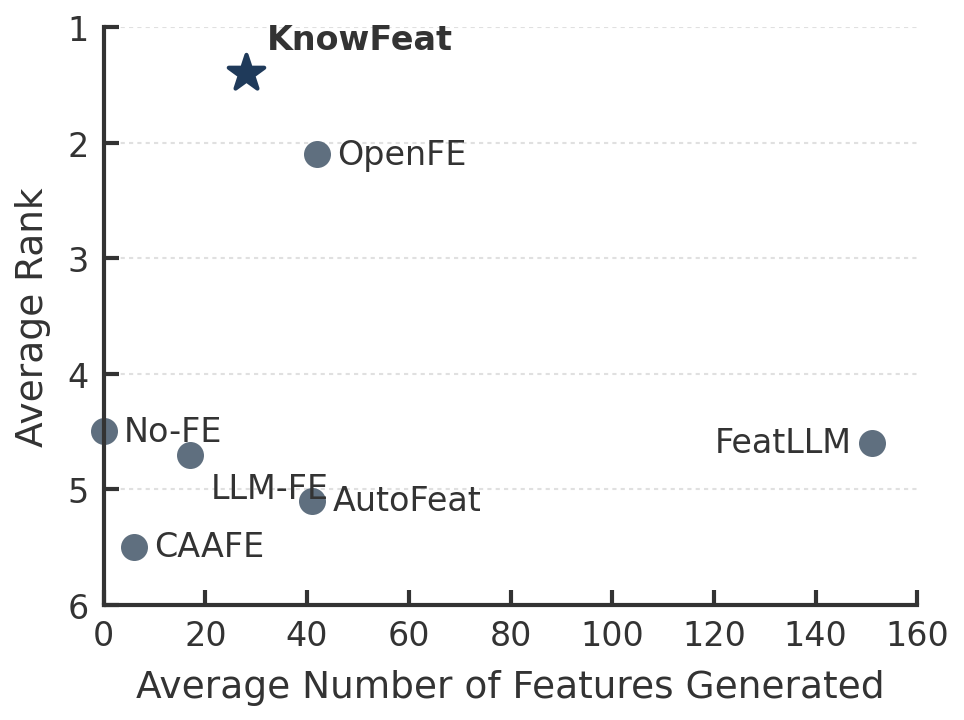
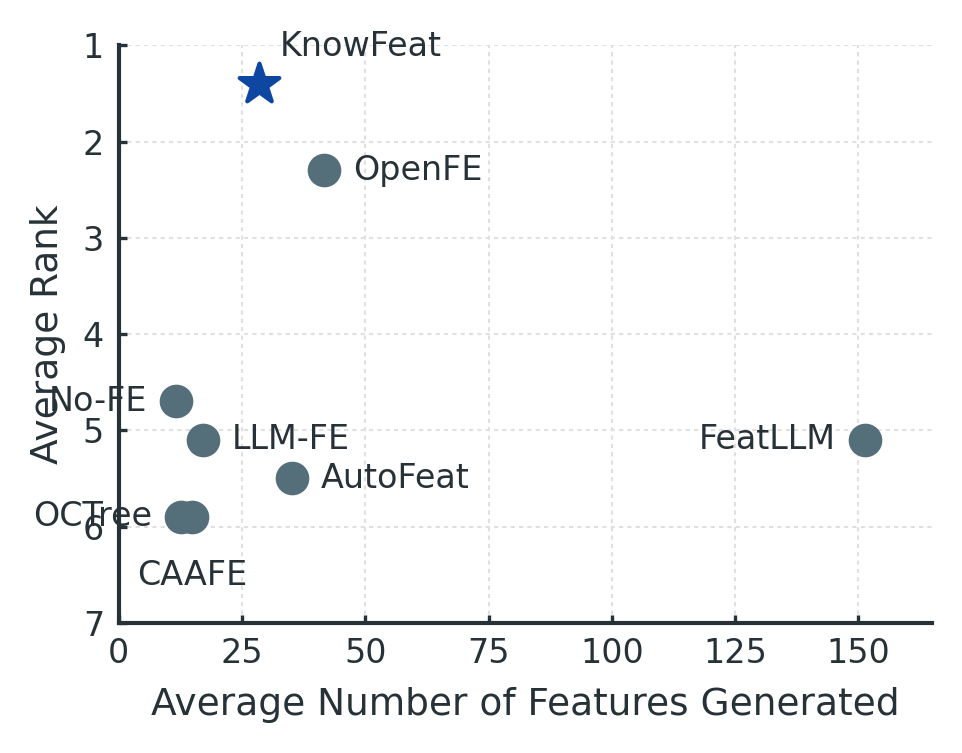
update figures: merge fig2+fig3, soften framework agent color
- Merge avg_rank bar chart (old Fig 2) and feat_vs_rank scatter (old Fig 3)
  into a single scatter plot with all 8 methods including OCTree
- Remove standalone avg_rank figure from experiments.tex
- Change ReAct LLM Agent background from black to steel-blue in framework
- Regenerate both figures via paperbanana

diff --git a/scripts/gen_fig3_scatter.py b/scripts/gen_fig3_scatter.py
@@ -18,19 +18,20 @@ async def main():
     COMPACT layout. Use standard fonts: Times New Roman or Helvetica, 8-9pt.
     White background, clean academic style.
 
-    Data:
+    Data (8 methods):
     | Method    | Avg Features Generated | Avg Rank |
     |-----------|----------------------|----------|
-    | KnowFeat  | 28                   | 1.4      |
-    | OpenFE    | 42                   | 2.1      |
-    | No-FE     | 0                    | 4.5      |
-    | FeatLLM   | 151                  | 4.6      |
-    | LLM-FE    | 17                   | 4.7      |
-    | AutoFeat  | 41                   | 5.1      |
-    | CAAFE     | 6                    | 5.5      |
+    | KnowFeat  | 28.4                 | 1.4      |
+    | OpenFE    | 41.7                 | 2.3      |
+    | No-FE     | 11.7                 | 4.7      |
+    | FeatLLM   | 151.3                | 5.1      |
+    | LLM-FE    | 17.1                 | 5.1      |
+    | AutoFeat  | 35.1                 | 5.5      |
+    | CAAFE     | 14.9                 | 5.9      |
+    | OCTree    | 12.7                 | 5.9      |
 
-    - X-axis: "Average Number of Features Generated" (0 to 160)
-    - Y-axis: "Average Rank" (INVERTED: 1 at top, 6 at bottom)
+    - X-axis: "Average Number of Features Generated" (0 to 165)
+    - Y-axis: "Average Rank" (INVERTED: 1 at top, 7 at bottom)
     - KnowFeat point in dark blue (larger marker or star), others in gray circles
     - Label each point with method name placed near the marker (avoid overlap)
     - The key insight: KnowFeat is in the top-left quadrant (few features, best rank)
@@ -41,13 +42,13 @@ async def main():
     """
 
     raw_data = {
-        "methods": ["KnowFeat", "OpenFE", "No-FE", "FeatLLM", "LLM-FE", "AutoFeat", "CAAFE"],
-        "avg_features_added": [28, 42, 0, 151, 17, 41, 6],
-        "avg_rank": [1.4, 2.1, 4.5, 4.6, 4.7, 5.1, 5.5],
+        "methods": ["KnowFeat", "OpenFE", "No-FE", "FeatLLM", "LLM-FE", "AutoFeat", "CAAFE", "OCTree"],
+        "avg_features_added": [28.4, 41.7, 11.7, 151.3, 17.1, 35.1, 14.9, 12.7],
+        "avg_rank": [1.4, 2.3, 4.7, 5.1, 5.1, 5.5, 5.9, 5.9],
     }
 
     caption = (
-        "Trade-off between feature quantity and average rank. "
+        "Trade-off between feature quantity and average rank across 8 methods. "
         "KnowFeat achieves the best rank with a moderate number of verified features."
     )
 

diff --git a/paper/experiments.tex b/paper/experiments.tex
@@ -88,16 +88,7 @@ adult              & .929{\scriptsize$\pm$.004} & \underline{.930{\scriptsize$\p
 \end{tabular}
 \end{table*}
 
-Figure~\ref{fig:avg_rank} visualizes the average ranks. KnowFeat achieves the best average rank (1.4), substantially outperforming the second-best OpenFE (2.3).
-
-\begin{figure}[t]
-    \centering
-    \includegraphics[width=\columnwidth]{figures/avg_rank.png}
-    \caption{Average rank across 7 public datasets (lower is better). KnowFeat achieves the best average rank (1.4) among 8 methods.}
-    \label{fig:avg_rank}
-\end{figure}
-
-OpenFE achieves the best results on 3 datasets (diabetes, heart, bank\_marketing) through exhaustive operator-operand search. However, OpenFE generates 34--50 features per dataset, while KnowFeat achieves competitive or superior performance with 12--46 features (see Section~\ref{subsec:rq4}).
+KnowFeat achieves the best average rank (1.4), substantially outperforming the second-best OpenFE (2.3). OpenFE achieves the best results on 3 datasets (diabetes, heart, bank\_marketing) through exhaustive operator-operand search. However, OpenFE generates 34--50 features per dataset, while KnowFeat achieves competitive or superior performance with 12--46 features (see Section~\ref{subsec:rq4}).
 
 Among LLM-based methods, LLM-FE generally outperforms CAAFE and FeatLLM but remains below both OpenFE and KnowFeat. OCTree~\cite{nam2024octree}, which augments LLM generation with decision tree reasoning, performs comparably to No-FE on most datasets and achieves a near-tied third place on adult, but its average rank (5.9) is among the lowest. Notably, both LLM-FE and OCTree underperform the No-FE baseline on multiple datasets, suggesting that LLM-based generation without external domain knowledge and multi-stage verification is insufficient.
 
@@ -171,6 +162,6 @@ Figure~\ref{fig:feat_vs_rank} visualizes this trade-off. KnowFeat strikes an eff
 \begin{figure}[t]
     \centering
     \includegraphics[width=\columnwidth]{figures/feat_vs_rank.png}
-    \caption{Trade-off between feature quantity and average rank. KnowFeat achieves the best rank with a moderate number of verified features.}
+    \caption{Trade-off between feature quantity and average rank across 8 methods. KnowFeat achieves the best rank (1.4) with a moderate number of verified features.}
     \label{fig:feat_vs_rank}
 \end{figure}

diff --git a/scripts/gen_fig1_framework.py b/scripts/gen_fig1_framework.py
@@ -36,7 +36,7 @@ async def main():
 
     === COLUMN 2: "Core Agent" (light cream/yellow background) ===
     Top: Label "Multi-round Reasoning Loop" with a circular arrow icon.
-    Center: A dark rounded box containing "ReAct LLM Agent" (bold text).
+    Center: A rounded box with a medium steel-blue background (#4682B4) containing "ReAct LLM Agent" (bold white text). Do NOT use black or very dark background — use a medium blue that is visible but not harsh.
     Do NOT write any model name like GPT-4o or DeepSeek. Only "ReAct LLM Agent".
     Three tools arranged around the agent box, each with a small icon:
         • explore_data (magnifying glass icon, top-right)
